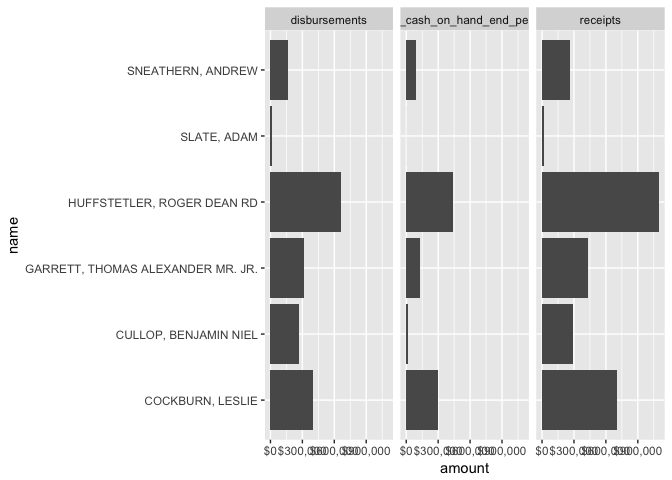
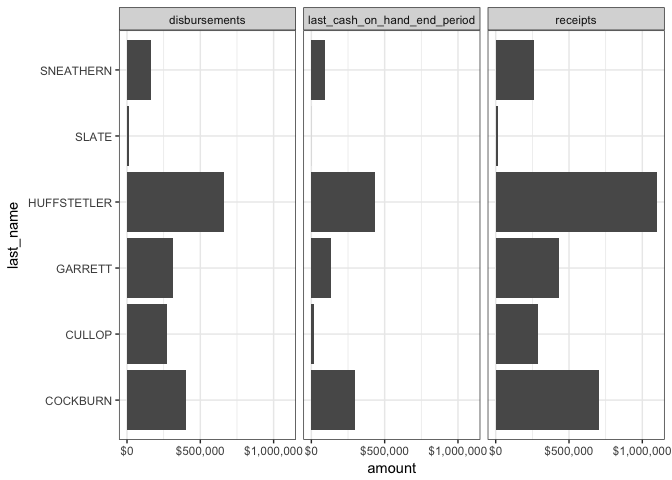
Make Example Look Better
Clean up graphic.

diff --git a/README.md b/README.md
@@ -127,12 +127,14 @@ library(ggplot2)
 candidate_totals %>%
   filter(cycle == "2018") %>%
   left_join(search_on_election, by = c("candidate_id" = "candidate_id")) %>%
+  separate(name, c('last_name', 'first_name'), sep = ', ', extra = "drop", fill = "right") %>%
   gather(key = "type", value = "amount", receipts, disbursements, last_cash_on_hand_end_period) %>%
   ggplot() +
-  geom_bar(aes(x = name, y = amount), stat = "identity") +
+  geom_bar(aes(x = last_name, y = amount), stat = "identity") +
   facet_wrap(~type) +
-  scale_y_continuous(labels = scales::dollar) +
-  coord_flip()
+  scale_y_continuous(labels = scales::dollar, breaks = seq(0,1000000,by=500000)) +
+  coord_flip() +
+  theme_bw()
 ```
 
 ![](README-unnamed-chunk-6-1.png)
